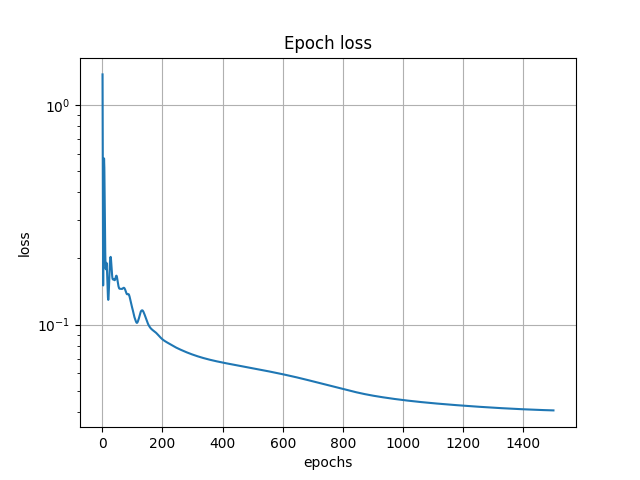
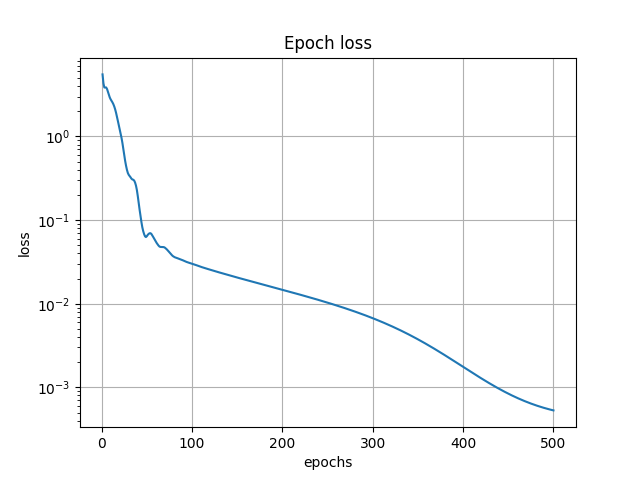
ode ic problesm and systems done

diff --git a/test.py b/test.py
@@ -19,10 +19,9 @@ import matplotlib.pyplot as plt
 # Poisson
 # re2 = p.domain.NRect(2, [-1, -1], [1, 1])
 # bound2 = p.boundaries.dirichlet(re2, [lambda x1, x2: tf.cos(np.pi*x1)*tf.sin(np.pi*x2)])
-# dat2 = p.data.dedata(re2, bound2, 12000, 800)
+# dat2 = p.data.dedata(re2, bound2, 12000, 10)
 # mymodel = p.models.pinn(dat2, ["ux1x1 + ux2x2 - (-2*np.pi**2*tf.cos(np.pi*x1)*tf.sin(np.pi*x2))"])
-# epochs = 1500
-# mymodel.train(epochs)
+# mymodel.train(1)
 # p.plotters.plot_solution_prediction_2D(mymodel)
 # p.plotters.plot_epoch_loss(mymodel)
 
@@ -95,11 +94,13 @@ import matplotlib.pyplot as plt
 
 
 # test ode
-# tre = p.domain.NRect(1, [0], [1])
-# cond = p.boundaries.odeicbc(tre, [0.5, 1], "ic")
-# dat = p.data.dedata(tre, cond, 1000, 5)
-# mymodel = p.models.pinn(dat, ["0.08*ux1x1 + 0.08*ux2x2 - ut", "utt+ux1"])
-# mymodel.train(1)
+tre = p.domain.NRect(1, [0], [1])
+cond = p.boundaries.odeicbc(tre, [[0.5, 1], [2]], "ic")
+dat = p.data.dedata(tre, cond, 1000, 100)
+mymodel = p.models.pinn(dat, ["u1x1x1 + u1", "u2x1+u1"])
+mymodel.train(500)
+p.plotters.plot_epoch_loss(mymodel)
+p.plotters.plot_solution_prediction_1D(mymodel)
 
 # test system
 # tre = p.domain.Time_NRect(1, [-1], [1], [0, 1])
@@ -112,14 +113,14 @@ import matplotlib.pyplot as plt
 # p.plotters.plot_solution_prediction_time1D(mymodel)
 
 
-tre = p.domain.Time_NRect(1, [-1], [1], [0, 1])
-bound = p.boundaries.dirichlet(tre, [lambda t, x1: 0+t*0])
-inits = p.initials.initials(tre, [[lambda x1: tf.sin((np.pi/2)*x1 + (np.pi/2))], [lambda x1: -tf.sin(np.pi*x1)]])
-dat = p.data.timededata(tre, bound, inits, 12000, 1000, 1000)
-mymodel = p.models.pinn(dat, ["0.08*u1x1x1 - u1t", "u2t+u2*u2x1-(0.01/np.pi)*u2x1x1"])
-mymodel.train(1500)
-p.plotters.plot_epoch_loss(mymodel)
-p.plotters.plot_solution_prediction_time1D(mymodel)
+# tre = p.domain.Time_NRect(1, [-1], [1], [0, 1])
+# bound = p.boundaries.dirichlet(tre, [lambda t, x1: 0+t*0])
+# inits = p.initials.initials(tre, [[lambda x1: tf.sin((np.pi/2)*x1 + (np.pi/2))], [lambda x1: -tf.sin(np.pi*x1)]])
+# dat = p.data.timededata(tre, bound, inits, 12000, 1000, 1000)
+# mymodel = p.models.pinn(dat, ["0.08*u1x1x1 - u1t", "u2t+u2*u2x1-(0.01/np.pi)*u2x1x1"])
+# mymodel.train(1500)
+# p.plotters.plot_epoch_loss(mymodel)
+# p.plotters.plot_solution_prediction_time1D(mymodel)
 
 
 # -------------

diff --git a/src/pinnde/training/pinnTrainSteps.py b/src/pinnde/training/pinnTrainSteps.py
@@ -3,7 +3,6 @@ import numpy as np
 import ast
 
 def trainStep(eqns, clps, bcs, network, boundary):
-    eqns = network.get_eqns()
     dim = boundary.get_domain().get_dim()
     bdry_type = boundary.get_bdry_type()
     bdry_components = boundary.get_domain().get_bdry_components()
@@ -61,6 +60,7 @@ def trainStep(eqns, clps, bcs, network, boundary):
            
         # dirichlet
         elif bdry_type == 2:
+            print(bcs_group)
             u_bc_pred = network(bcs_group)
             u_bcs = tf.cast(u_bcs, tf.float32)
             BCloss = tf.reduce_mean(tf.square(u_bcs-u_bc_pred))
@@ -92,8 +92,34 @@ def trainStep(eqns, clps, bcs, network, boundary):
 
         # ode
         elif bdry_type == 4:
-            pass
+            if boundary.get_flag() == "ic":
+                t_orders = boundary.get_orders()
+                t_ics = bcs[:,0:1]
+                maxi = 0
+                ics_group = [t_ics]
+                for e in range(len(eqns)):
+                    for i in range(maxi, maxi+t_orders[e]):
+                        ics_group.append([bcs[:,i+1:i+2]])
+                        maxi += 1
+                with tf.GradientTape(persistent=True) as tape2:
+                    for col in ics_group:
+                        tape2.watch(col)
+                    dim_iter = dim
+                    for e in range(len(eqns)):
+                        if (len(eqns) == 1):
+                            u_init_pred = network(ics_group[:dim])
+                        else:
+                            u_init_pred = network(ics_group[:dim])[e]
+                        BCloss += tf.reduce_mean(tf.square(u_init_pred - tf.cast(ics_group[dim_iter], tf.float32)))
+                        dim_iter += 1
+                        for i in range(t_orders[e]-1):
+                            next_pred = tf.cast(tape2.gradient(u_init_pred, ics_group[0]), tf.float32)
+                            BCloss += tf.reduce_mean(tf.square(next_pred - tf.cast(ics_group[(dim_iter)], tf.float32)))
+                            u_init_pred = next_pred
+                            dim_iter += 1
 
+            elif boundary.get_flag() == "bc":
+                pass
 
         loss = CLPloss + BCloss
     

diff --git a/src/pinnde/boundaries/odeicbc.py b/src/pinnde/boundaries/odeicbc.py
@@ -1,5 +1,5 @@
 from .boundaries import boundaries
-from ..domain.timedomain import timedomain
+from ..initials import initials
 import inspect
 import numpy as np
 import tensorflow as tf
@@ -7,24 +7,45 @@ import tensorflow as tf
 class odeicbc(boundaries):
 
     def __init__(self, domain, conditions, flag="ic"):
+        # ic: conditions [u0, ux10, ..]
+        # bc: conditions [u0, uf, ux10, ux1f, ...]
         if (flag != "ic" and flag != "bc"):
             raise ValueError("flag must be ic or bc - initial conditons for ode or boundary conditions for ode")
       
         super().__init__(domain, 4)
         self._conditions = conditions
-        self._flag = "ic"
+        self._flag = flag
+        self._orders = None
         
     def get_conditions(self):
         return self._conditions
     
     def get_flag(self):
         return self._flag
+    
+    def get_orders(self):
+        return self._orders
 
     def boundaryPoints(self, n_bc):
-        pure_boundary = self._domain.sampleBoundary(n_bc)
         if self._flag == "ic":
-            pure_boundary[:] = pure_boundary[0][0]
+            flat_conds = self._conditions
+            self._orders = [len(self._conditions)]
+            # multiple eqns, [[lambdas], [lambdas]]
+            if (type(self._conditions[0]) == list):
+                flat_conds = []
+                self._orders = []
+                for conds in self._conditions:
+                    i = 0
+                    for cond in conds:
+                        flat_conds.append(cond)
+                        i += 1
+                    self._orders.append(i)
+            
+            points = self._domain.sampleBoundary(n_bc)
+            points[:] = points[0][0]
+            pts_shape = points
+            for cond in flat_conds:
+                next_points = cond+0*pts_shape
+                points = np.column_stack([points, next_points])
         
-        print(pure_boundary)
-    
-        return
+        return points

diff --git a/src/pinnde/plotters/plottersPinnPredictions.py b/src/pinnde/plotters/plottersPinnPredictions.py
@@ -3,6 +3,38 @@ from matplotlib.colors import Normalize
 import matplotlib.pyplot as plt
 import matplotlib.cm as cm
 
+def plot_solution_prediction_1D(model):
+    eqns = model.get_eqns()
+    network = model.get_network()
+    domain = model.get_domain()
+
+    t = np.linspace(domain.get_min_dim_vals()[0], domain.get_max_dim_vals()[0], 200)
+    
+    sols = network(np.expand_dims(t, axis=1))
+
+    if len(eqns) == 1:
+        plt.figure()
+        plt.plot(t, sols)
+        plt.title('Neural network solution')
+        plt.grid()
+        plt.xlabel('x1')
+        plt.ylabel('u')
+        plt.savefig("ODE-solution-pred")
+        plt.clf()
+
+    elif len(eqns) > 1:
+        plt.figure()
+        for e in range(len(eqns)):
+            globals()[f"sols{e+1}"] = sols[e]
+            plt.plot(t, globals()[f"sols{e+1}"])
+        plt.title(f'Neural network solution')
+        plt.grid()
+        plt.xlabel('x1')
+        plt.ylabel('u')
+        plt.savefig(f"ODE-solution-pred")
+        plt.clf()
+    return
+
 def plot_solution_prediction_time1D(model):
     eqns = model.get_eqns()
     network = model.get_network()

diff --git a/src/pinnde/plotters/__init__.py b/src/pinnde/plotters/__init__.py
@@ -2,8 +2,10 @@ __all__= [
     "plot_solution_prediction_time2D",
     "plot_solution_prediction_time1D",
     "plot_solution_prediction_2D",
-    "plot_epoch_loss"
+    "plot_epoch_loss",
+    "plot_solution_prediction_1D"
 ]
 
-from .plottersPinnPredictions import plot_solution_prediction_time2D, plot_solution_prediction_2D, plot_solution_prediction_time1D
+from .plottersPinnPredictions import plot_solution_prediction_time2D, \
+plot_solution_prediction_2D, plot_solution_prediction_time1D, plot_solution_prediction_1D
 from .plotLosses import plot_epoch_loss
